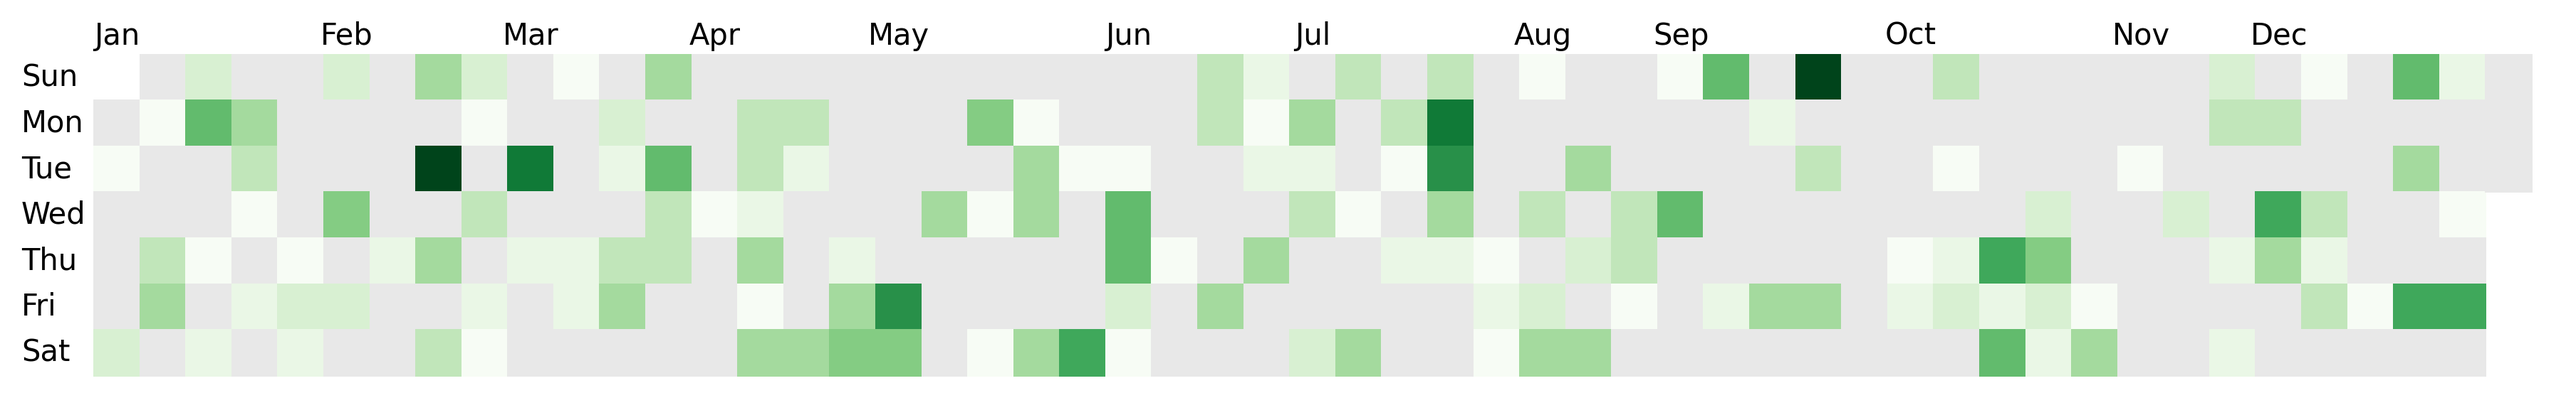
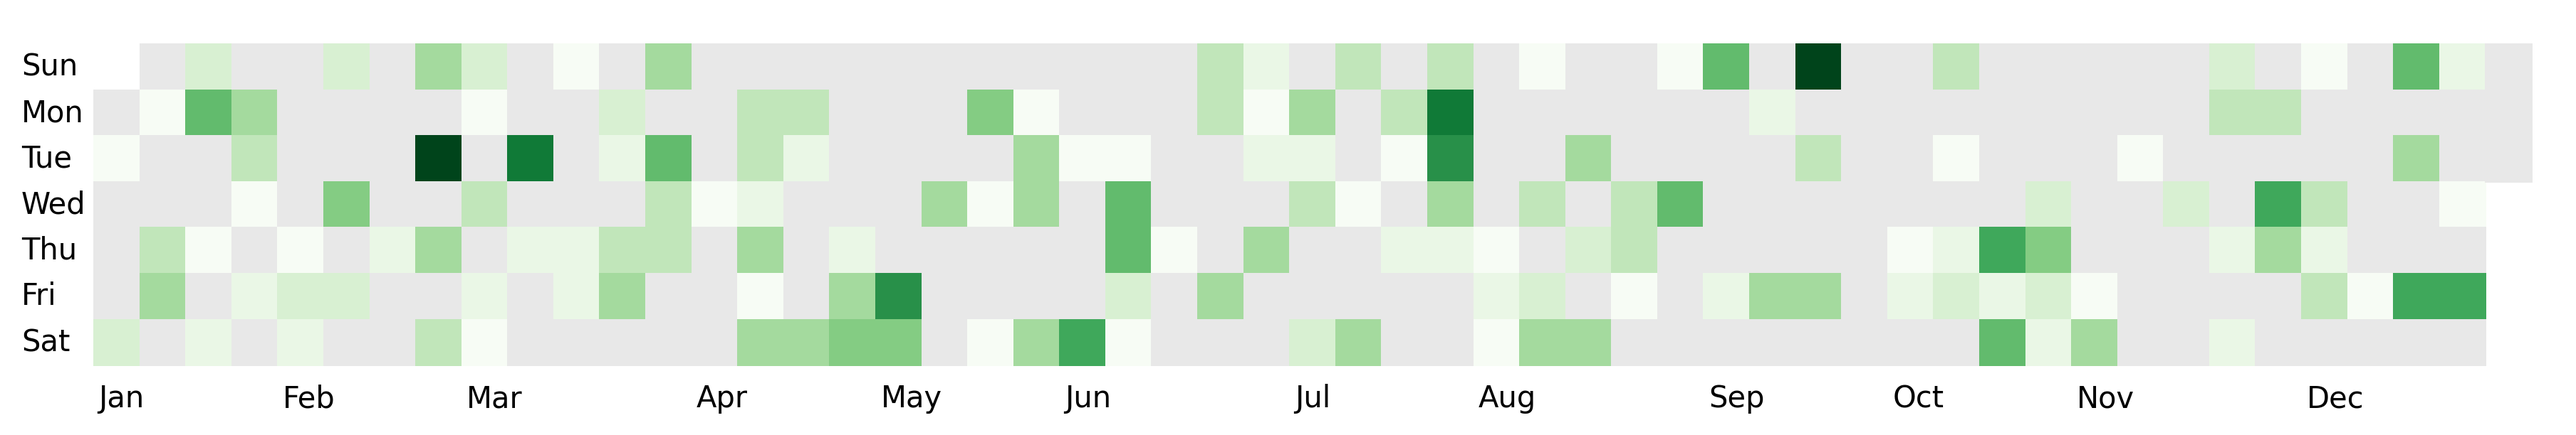
add monthgrid example to index.md & refresh all docs plots

diff --git a/docs/scripts/quick_start.py b/docs/scripts/quick_start.py
@@ -92,4 +92,15 @@ fig.savefig("docs/img/quickstart-github.png", bbox_inches="tight", dpi=300)
 
 ########################################################################
 
+fig, ax = plt.subplots(figsize=(15, 6))
+dp.calendar(
+    dates=df["dates"],
+    values=df["values"],
+    start_date="2024-01-01",
+    end_date="2024-12-31",
+    month_grid=True,
+    ax=ax,
+)
+fig.savefig("docs/img/quickstart-monthgrid.png", bbox_inches="tight", dpi=300)
+
 plt.close("all")

diff --git a/docs/scripts/advanced.py b/docs/scripts/advanced.py
@@ -64,7 +64,7 @@ fig.text(
 )
 fig.text(
     x=0.75,
-    y=0.08,
+    y=0.05,
     s="made with dayplot",
     size=7,
     ha="right",
@@ -130,7 +130,7 @@ fig.text(
 )
 fig.text(
     x=0.63,
-    y=0.1,
+    y=0.08,
     s="made with dayplot, by Joseph Barbier",
     size=7,
     ha="right",

diff --git a/docs/index.md b/docs/index.md
@@ -140,6 +140,27 @@ A simple-to-use Python library to build **calendar heatmaps** with ease. It's bu
     ax.set_facecolor("#0d1117")
     ```
 
+=== "Month Grid"
+
+    ![](img/quickstart-monthgrid.png)
+
+    ```py
+    import matplotlib.pyplot as plt
+    import dayplot as dp
+
+    df = dp.load_dataset("pandas") # can also be "polars", "pyarrow", etc
+
+    fig, ax = plt.subplots(figsize=(15, 6))
+    dp.calendar(
+        dates=df["dates"],
+        values=df["values"],
+        start_date="2024-01-01",
+        end_date="2024-12-31",
+        month_grid=True,
+        ax=ax,
+    )
+    ```
+
 <span style="font-size: 1rem; font-weight: bold;">[See more examples](./tuto/basic-styling.md)</span>
 
 ## Installation

diff --git a/docs/tuto/advanced.md b/docs/tuto/advanced.md
@@ -67,7 +67,7 @@ fig.text(
 )
 fig.text(
     x=0.75,
-    y=0.08,
+    y=0.05,
     s="made with dayplot",
     size=7,
     ha="right",
@@ -145,7 +145,7 @@ fig.text(
 )
 fig.text(
     x=0.63,
-    y=0.1,
+    y=0.08,
     s="made with dayplot, by Joseph Barbier",
     size=7,
     ha="right",
